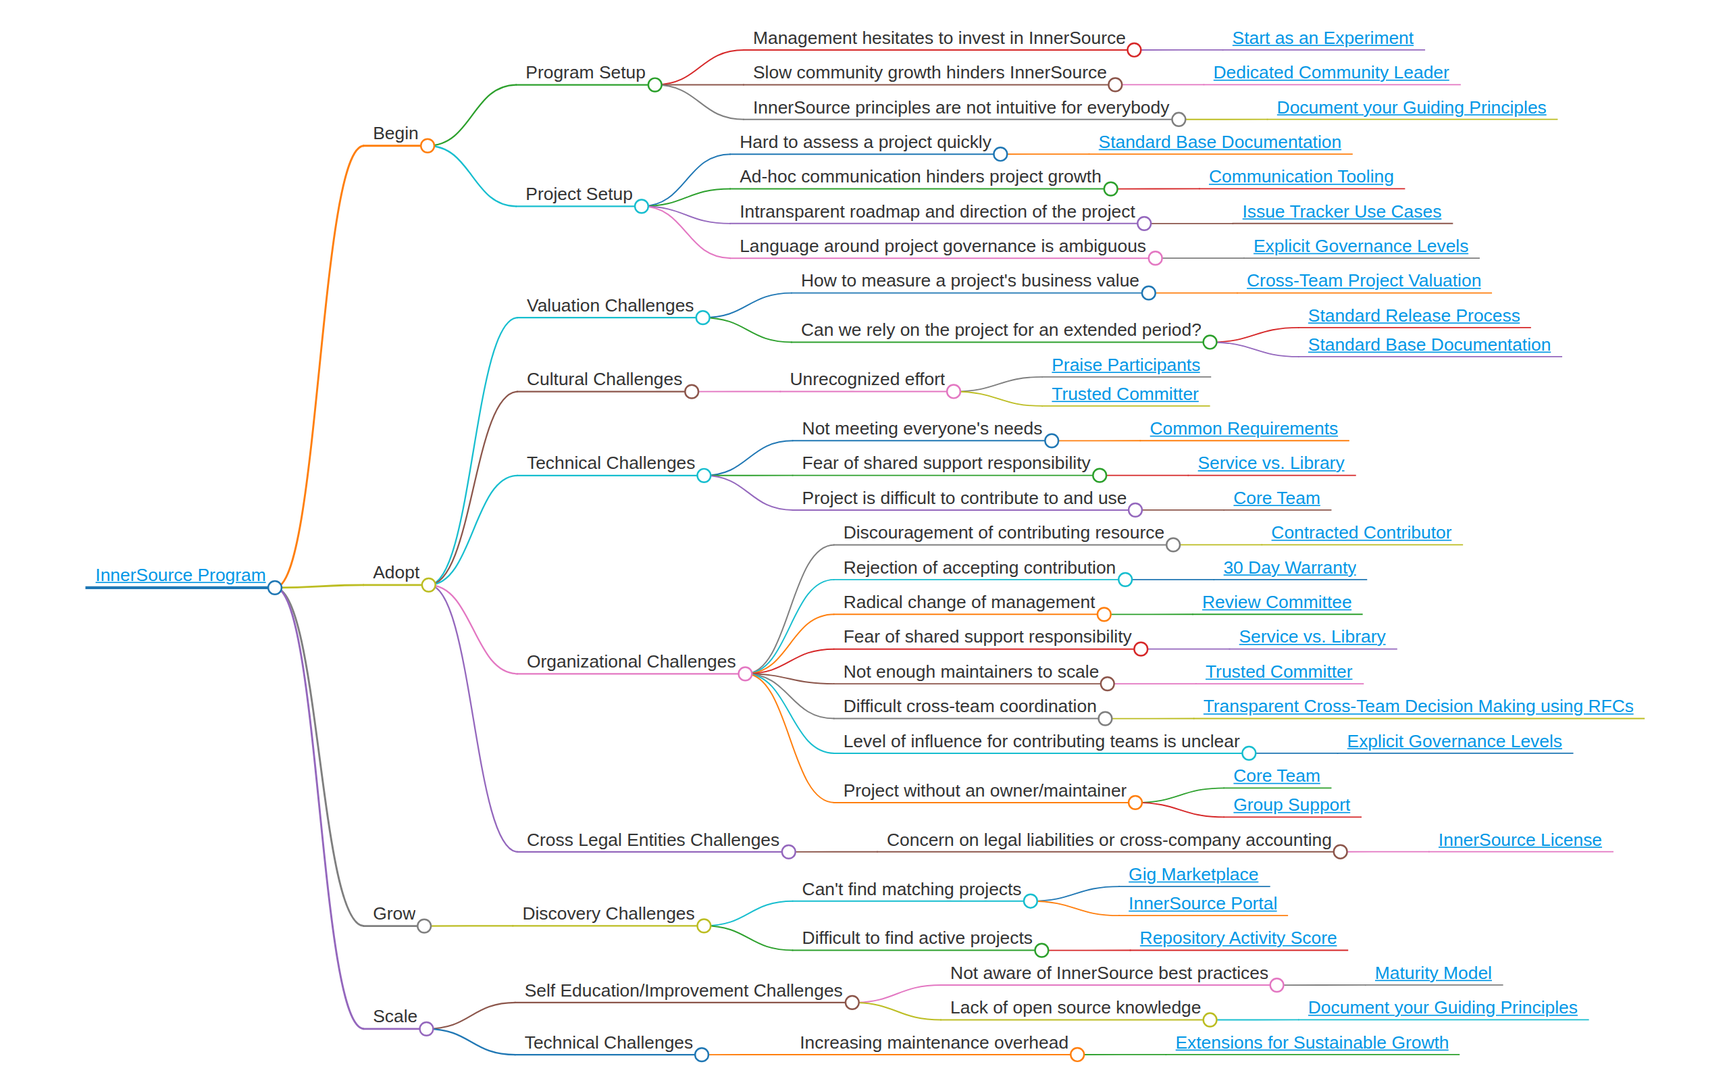
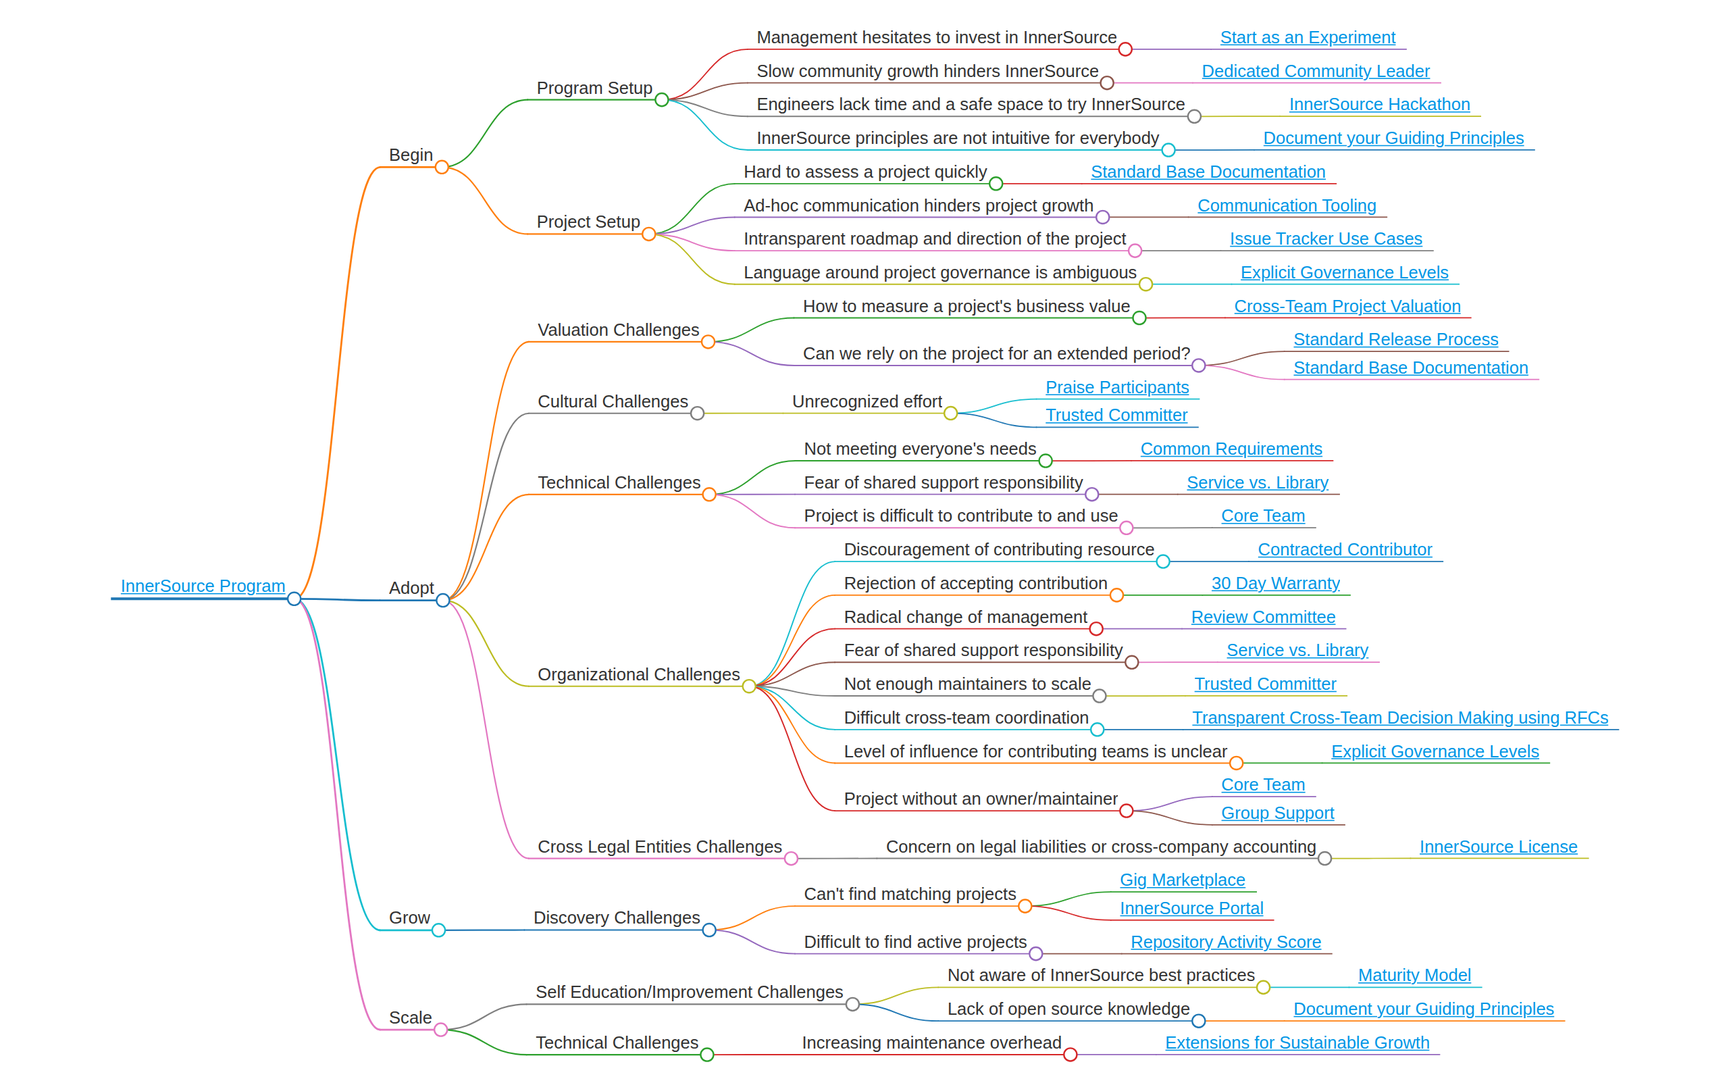
Run GitHub Actions for new pattern (#902)
* Minor change

* Writing updated toc.md for the en book

* Re-creating markmap and screenshot

---------

diff --git a/pattern-categorization/innersource-program-mind-map.html b/pattern-categorization/innersource-program-mind-map.html
@@ -38,6 +38,6 @@ html {
               if (window.matchMedia("(prefers-color-scheme: dark)").matches) {
                 document.documentElement.classList.add("markmap-dark");
               }
-            })(() => window.markmap,null,{"content":"<a href=\"https://patterns.innersourcecommons.org/toc\">InnerSource Program</a>","children":[{"content":"Begin","children":[{"content":"Program Setup","children":[{"content":"Management hesitates to invest in InnerSource","children":[{"content":"<a href=\"https://patterns.innersourcecommons.org/p/start-as-experiment\">Start as an Experiment</a>","children":[],"payload":{"tag":"h5","lines":"8,9"}}],"payload":{"tag":"h4","lines":"6,7"}},{"content":"Slow community growth hinders InnerSource","children":[{"content":"<a href=\"https://patterns.innersourcecommons.org/p/dedicated-community-leader\">Dedicated Community Leader</a>","children":[],"payload":{"tag":"h5","lines":"12,13"}}],"payload":{"tag":"h4","lines":"10,11"}},{"content":"InnerSource principles are not intuitive for everybody","children":[{"content":"<a href=\"https://patterns.innersourcecommons.org/p/document-your-guiding-principles\">Document your Guiding Principles</a>","children":[],"payload":{"tag":"h5","lines":"16,17"}}],"payload":{"tag":"h4","lines":"14,15"}}],"payload":{"tag":"h3","lines":"4,5"}},{"content":"Project Setup","children":[{"content":"Hard to assess a project quickly","children":[{"content":"<a href=\"https://patterns.innersourcecommons.org/p/base-documentation\">Standard Base Documentation</a>","children":[],"payload":{"tag":"h5","lines":"22,23"}}],"payload":{"tag":"h4","lines":"20,21"}},{"content":"Ad-hoc communication hinders project growth","children":[{"content":"<a href=\"https://patterns.innersourcecommons.org/p/communication-tooling\">Communication Tooling</a>","children":[],"payload":{"tag":"h5","lines":"26,27"}}],"payload":{"tag":"h4","lines":"24,25"}},{"content":"Intransparent roadmap and direction of the project","children":[{"content":"<a href=\"https://patterns.innersourcecommons.org/p/issue-tracker\">Issue Tracker Use Cases</a>","children":[],"payload":{"tag":"h5","lines":"30,31"}}],"payload":{"tag":"h4","lines":"28,29"}},{"content":"Language around project governance is ambiguous","children":[{"content":"<a href=\"https://patterns.innersourcecommons.org/p/governance-levels\">Explicit Governance Levels</a>","children":[],"payload":{"tag":"h5","lines":"34,35"}}],"payload":{"tag":"h4","lines":"32,33"}}],"payload":{"tag":"h3","lines":"18,19"}}],"payload":{"tag":"h2","lines":"2,3"}},{"content":"Adopt","children":[{"content":"Valuation Challenges","children":[{"content":"How to measure a project&apos;s business value","children":[{"content":"<a href=\"https://patterns.innersourcecommons.org/p/crossteam-project-valuation\">Cross-Team Project Valuation</a>","children":[],"payload":{"tag":"h5","lines":"42,43"}}],"payload":{"tag":"h4","lines":"40,41"}},{"content":"Can we rely on the project for an extended period?","children":[{"content":"<a href=\"https://patterns.innersourcecommons.org/p/release-process\">Standard Release Process</a>","children":[],"payload":{"tag":"h5","lines":"46,47"}},{"content":"<a href=\"https://patterns.innersourcecommons.org/p/base-documentation\">Standard Base Documentation</a>","children":[],"payload":{"tag":"h5","lines":"48,49"}}],"payload":{"tag":"h4","lines":"44,45"}}],"payload":{"tag":"h3","lines":"38,39"}},{"content":"Cultural Challenges","children":[{"content":"Unrecognized effort","children":[{"content":"<a href=\"https://patterns.innersourcecommons.org/p/praise-participants\">Praise Participants</a>","children":[],"payload":{"tag":"h5","lines":"54,55"}},{"content":"<a href=\"https://patterns.innersourcecommons.org/p/trusted-committer\">Trusted Committer</a>","children":[],"payload":{"tag":"h5","lines":"56,57"}}],"payload":{"tag":"h4","lines":"52,53"}}],"payload":{"tag":"h3","lines":"50,51"}},{"content":"Technical Challenges","children":[{"content":"Not meeting everyone&apos;s needs","children":[{"content":"<a href=\"https://patterns.innersourcecommons.org/p/common-requirements\">Common Requirements</a>","children":[],"payload":{"tag":"h5","lines":"62,63"}}],"payload":{"tag":"h4","lines":"60,61"}},{"content":"Fear of shared support responsibility","children":[{"content":"<a href=\"https://patterns.innersourcecommons.org/p/service-vs-library\">Service vs. Library</a>","children":[],"payload":{"tag":"h5","lines":"66,67"}}],"payload":{"tag":"h4","lines":"64,65"}},{"content":"Project is difficult to contribute to and use","children":[{"content":"<a href=\"https://patterns.innersourcecommons.org/p/core-team\">Core Team</a>","children":[],"payload":{"tag":"h5","lines":"70,71"}}],"payload":{"tag":"h4","lines":"68,69"}}],"payload":{"tag":"h3","lines":"58,59"}},{"content":"Organizational Challenges","children":[{"content":"Discouragement of contributing resource","children":[{"content":"<a href=\"https://patterns.innersourcecommons.org/p/contracted-contributor\">Contracted Contributor</a>","children":[],"payload":{"tag":"h5","lines":"76,77"}}],"payload":{"tag":"h4","lines":"74,75"}},{"content":"Rejection of accepting contribution","children":[{"content":"<a href=\"https://patterns.innersourcecommons.org/p/30-day-warranty\">30 Day Warranty</a>","children":[],"payload":{"tag":"h5","lines":"80,81"}}],"payload":{"tag":"h4","lines":"78,79"}},{"content":"Radical change of management","children":[{"content":"<a href=\"https://patterns.innersourcecommons.org/p/review-committee\">Review Committee</a>","children":[],"payload":{"tag":"h5","lines":"84,85"}}],"payload":{"tag":"h4","lines":"82,83"}},{"content":"Fear of shared support responsibility","children":[{"content":"<a href=\"https://patterns.innersourcecommons.org/p/service-vs-library\">Service vs. Library</a>","children":[],"payload":{"tag":"h5","lines":"88,89"}}],"payload":{"tag":"h4","lines":"86,87"}},{"content":"Not enough maintainers to scale","children":[{"content":"<a href=\"https://patterns.innersourcecommons.org/p/trusted-committer\">Trusted Committer</a>","children":[],"payload":{"tag":"h5","lines":"92,93"}}],"payload":{"tag":"h4","lines":"90,91"}},{"content":"Difficult cross-team coordination","children":[{"content":"<a href=\"https://patterns.innersourcecommons.org/p/transparent-cross-team-decision-making-using-rfcs\">Transparent Cross-Team Decision Making using RFCs</a>","children":[],"payload":{"tag":"h5","lines":"96,97"}}],"payload":{"tag":"h4","lines":"94,95"}},{"content":"Level of influence for contributing teams is unclear","children":[{"content":"<a href=\"https://patterns.innersourcecommons.org/p/governance-levels\">Explicit Governance Levels</a>","children":[],"payload":{"tag":"h5","lines":"100,101"}}],"payload":{"tag":"h4","lines":"98,99"}},{"content":"Project without an owner/maintainer","children":[{"content":"<a href=\"https://patterns.innersourcecommons.org/p/core-team\">Core Team</a>","children":[],"payload":{"tag":"h5","lines":"104,105"}},{"content":"<a href=\"https://patterns.innersourcecommons.org/p/group-support\">Group Support</a>","children":[],"payload":{"tag":"h5","lines":"106,107"}}],"payload":{"tag":"h4","lines":"102,103"}}],"payload":{"tag":"h3","lines":"72,73"}},{"content":"Cross Legal Entities Challenges","children":[{"content":"Concern on legal liabilities or cross-company accounting","children":[{"content":"<a href=\"https://patterns.innersourcecommons.org/p/innersource-license\">InnerSource License</a>","children":[],"payload":{"tag":"h5","lines":"112,113"}}],"payload":{"tag":"h4","lines":"110,111"}}],"payload":{"tag":"h3","lines":"108,109"}}],"payload":{"tag":"h2","lines":"36,37"}},{"content":"Grow","children":[{"content":"Discovery Challenges","children":[{"content":"Can&apos;t find matching projects","children":[{"content":"<a href=\"https://patterns.innersourcecommons.org/p/gig-marketplace\">Gig Marketplace</a>","children":[],"payload":{"tag":"h5","lines":"120,121"}},{"content":"<a href=\"https://patterns.innersourcecommons.org/p/innersource-portal\">InnerSource Portal</a>","children":[],"payload":{"tag":"h5","lines":"122,123"}}],"payload":{"tag":"h4","lines":"118,119"}},{"content":"Difficult to find active projects","children":[{"content":"<a href=\"https://patterns.innersourcecommons.org/p/repository-activity-score\">Repository Activity Score</a>","children":[],"payload":{"tag":"h5","lines":"126,127"}}],"payload":{"tag":"h4","lines":"124,125"}}],"payload":{"tag":"h3","lines":"116,117"}}],"payload":{"tag":"h2","lines":"114,115"}},{"content":"Scale","children":[{"content":"Self Education/Improvement Challenges","children":[{"content":"Not aware of InnerSource best practices","children":[{"content":"<a href=\"https://patterns.innersourcecommons.org/p/maturity-model\">Maturity Model</a>","children":[],"payload":{"tag":"h5","lines":"134,135"}}],"payload":{"tag":"h4","lines":"132,133"}},{"content":"Lack of open source knowledge","children":[{"content":"<a href=\"https://patterns.innersourcecommons.org/p/document-your-guiding-principles\">Document your Guiding Principles</a>","children":[],"payload":{"tag":"h5","lines":"138,139"}}],"payload":{"tag":"h4","lines":"136,137"}}],"payload":{"tag":"h3","lines":"130,131"}},{"content":"Technical Challenges","children":[{"content":"Increasing maintenance overhead","children":[{"content":"<a href=\"https://patterns.innersourcecommons.org/p/extensions-for-sustainable-growth\">Extensions for Sustainable Growth</a>","children":[],"payload":{"tag":"h5","lines":"144,145"}}],"payload":{"tag":"h4","lines":"142,143"}}],"payload":{"tag":"h3","lines":"140,141"}}],"payload":{"tag":"h2","lines":"128,129"}}],"payload":{"tag":"h1","lines":"0,1"}},null)</script>
+            })(() => window.markmap,null,{"content":"<a href=\"https://patterns.innersourcecommons.org/toc\">InnerSource Program</a>","children":[{"content":"Begin","children":[{"content":"Program Setup","children":[{"content":"Management hesitates to invest in InnerSource","children":[{"content":"<a href=\"https://patterns.innersourcecommons.org/p/start-as-experiment\">Start as an Experiment</a>","children":[],"payload":{"tag":"h5","lines":"8,9"}}],"payload":{"tag":"h4","lines":"6,7"}},{"content":"Slow community growth hinders InnerSource","children":[{"content":"<a href=\"https://patterns.innersourcecommons.org/p/dedicated-community-leader\">Dedicated Community Leader</a>","children":[],"payload":{"tag":"h5","lines":"12,13"}}],"payload":{"tag":"h4","lines":"10,11"}},{"content":"Engineers lack time and a safe space to try InnerSource","children":[{"content":"<a href=\"https://patterns.innersourcecommons.org/p/innersource-hackathon\">InnerSource Hackathon</a>","children":[],"payload":{"tag":"h5","lines":"16,17"}}],"payload":{"tag":"h4","lines":"14,15"}},{"content":"InnerSource principles are not intuitive for everybody","children":[{"content":"<a href=\"https://patterns.innersourcecommons.org/p/document-your-guiding-principles\">Document your Guiding Principles</a>","children":[],"payload":{"tag":"h5","lines":"20,21"}}],"payload":{"tag":"h4","lines":"18,19"}}],"payload":{"tag":"h3","lines":"4,5"}},{"content":"Project Setup","children":[{"content":"Hard to assess a project quickly","children":[{"content":"<a href=\"https://patterns.innersourcecommons.org/p/base-documentation\">Standard Base Documentation</a>","children":[],"payload":{"tag":"h5","lines":"26,27"}}],"payload":{"tag":"h4","lines":"24,25"}},{"content":"Ad-hoc communication hinders project growth","children":[{"content":"<a href=\"https://patterns.innersourcecommons.org/p/communication-tooling\">Communication Tooling</a>","children":[],"payload":{"tag":"h5","lines":"30,31"}}],"payload":{"tag":"h4","lines":"28,29"}},{"content":"Intransparent roadmap and direction of the project","children":[{"content":"<a href=\"https://patterns.innersourcecommons.org/p/issue-tracker\">Issue Tracker Use Cases</a>","children":[],"payload":{"tag":"h5","lines":"34,35"}}],"payload":{"tag":"h4","lines":"32,33"}},{"content":"Language around project governance is ambiguous","children":[{"content":"<a href=\"https://patterns.innersourcecommons.org/p/governance-levels\">Explicit Governance Levels</a>","children":[],"payload":{"tag":"h5","lines":"38,39"}}],"payload":{"tag":"h4","lines":"36,37"}}],"payload":{"tag":"h3","lines":"22,23"}}],"payload":{"tag":"h2","lines":"2,3"}},{"content":"Adopt","children":[{"content":"Valuation Challenges","children":[{"content":"How to measure a project&apos;s business value","children":[{"content":"<a href=\"https://patterns.innersourcecommons.org/p/crossteam-project-valuation\">Cross-Team Project Valuation</a>","children":[],"payload":{"tag":"h5","lines":"46,47"}}],"payload":{"tag":"h4","lines":"44,45"}},{"content":"Can we rely on the project for an extended period?","children":[{"content":"<a href=\"https://patterns.innersourcecommons.org/p/release-process\">Standard Release Process</a>","children":[],"payload":{"tag":"h5","lines":"50,51"}},{"content":"<a href=\"https://patterns.innersourcecommons.org/p/base-documentation\">Standard Base Documentation</a>","children":[],"payload":{"tag":"h5","lines":"52,53"}}],"payload":{"tag":"h4","lines":"48,49"}}],"payload":{"tag":"h3","lines":"42,43"}},{"content":"Cultural Challenges","children":[{"content":"Unrecognized effort","children":[{"content":"<a href=\"https://patterns.innersourcecommons.org/p/praise-participants\">Praise Participants</a>","children":[],"payload":{"tag":"h5","lines":"58,59"}},{"content":"<a href=\"https://patterns.innersourcecommons.org/p/trusted-committer\">Trusted Committer</a>","children":[],"payload":{"tag":"h5","lines":"60,61"}}],"payload":{"tag":"h4","lines":"56,57"}}],"payload":{"tag":"h3","lines":"54,55"}},{"content":"Technical Challenges","children":[{"content":"Not meeting everyone&apos;s needs","children":[{"content":"<a href=\"https://patterns.innersourcecommons.org/p/common-requirements\">Common Requirements</a>","children":[],"payload":{"tag":"h5","lines":"66,67"}}],"payload":{"tag":"h4","lines":"64,65"}},{"content":"Fear of shared support responsibility","children":[{"content":"<a href=\"https://patterns.innersourcecommons.org/p/service-vs-library\">Service vs. Library</a>","children":[],"payload":{"tag":"h5","lines":"70,71"}}],"payload":{"tag":"h4","lines":"68,69"}},{"content":"Project is difficult to contribute to and use","children":[{"content":"<a href=\"https://patterns.innersourcecommons.org/p/core-team\">Core Team</a>","children":[],"payload":{"tag":"h5","lines":"74,75"}}],"payload":{"tag":"h4","lines":"72,73"}}],"payload":{"tag":"h3","lines":"62,63"}},{"content":"Organizational Challenges","children":[{"content":"Discouragement of contributing resource","children":[{"content":"<a href=\"https://patterns.innersourcecommons.org/p/contracted-contributor\">Contracted Contributor</a>","children":[],"payload":{"tag":"h5","lines":"80,81"}}],"payload":{"tag":"h4","lines":"78,79"}},{"content":"Rejection of accepting contribution","children":[{"content":"<a href=\"https://patterns.innersourcecommons.org/p/30-day-warranty\">30 Day Warranty</a>","children":[],"payload":{"tag":"h5","lines":"84,85"}}],"payload":{"tag":"h4","lines":"82,83"}},{"content":"Radical change of management","children":[{"content":"<a href=\"https://patterns.innersourcecommons.org/p/review-committee\">Review Committee</a>","children":[],"payload":{"tag":"h5","lines":"88,89"}}],"payload":{"tag":"h4","lines":"86,87"}},{"content":"Fear of shared support responsibility","children":[{"content":"<a href=\"https://patterns.innersourcecommons.org/p/service-vs-library\">Service vs. Library</a>","children":[],"payload":{"tag":"h5","lines":"92,93"}}],"payload":{"tag":"h4","lines":"90,91"}},{"content":"Not enough maintainers to scale","children":[{"content":"<a href=\"https://patterns.innersourcecommons.org/p/trusted-committer\">Trusted Committer</a>","children":[],"payload":{"tag":"h5","lines":"96,97"}}],"payload":{"tag":"h4","lines":"94,95"}},{"content":"Difficult cross-team coordination","children":[{"content":"<a href=\"https://patterns.innersourcecommons.org/p/transparent-cross-team-decision-making-using-rfcs\">Transparent Cross-Team Decision Making using RFCs</a>","children":[],"payload":{"tag":"h5","lines":"100,101"}}],"payload":{"tag":"h4","lines":"98,99"}},{"content":"Level of influence for contributing teams is unclear","children":[{"content":"<a href=\"https://patterns.innersourcecommons.org/p/governance-levels\">Explicit Governance Levels</a>","children":[],"payload":{"tag":"h5","lines":"104,105"}}],"payload":{"tag":"h4","lines":"102,103"}},{"content":"Project without an owner/maintainer","children":[{"content":"<a href=\"https://patterns.innersourcecommons.org/p/core-team\">Core Team</a>","children":[],"payload":{"tag":"h5","lines":"108,109"}},{"content":"<a href=\"https://patterns.innersourcecommons.org/p/group-support\">Group Support</a>","children":[],"payload":{"tag":"h5","lines":"110,111"}}],"payload":{"tag":"h4","lines":"106,107"}}],"payload":{"tag":"h3","lines":"76,77"}},{"content":"Cross Legal Entities Challenges","children":[{"content":"Concern on legal liabilities or cross-company accounting","children":[{"content":"<a href=\"https://patterns.innersourcecommons.org/p/innersource-license\">InnerSource License</a>","children":[],"payload":{"tag":"h5","lines":"116,117"}}],"payload":{"tag":"h4","lines":"114,115"}}],"payload":{"tag":"h3","lines":"112,113"}}],"payload":{"tag":"h2","lines":"40,41"}},{"content":"Grow","children":[{"content":"Discovery Challenges","children":[{"content":"Can&apos;t find matching projects","children":[{"content":"<a href=\"https://patterns.innersourcecommons.org/p/gig-marketplace\">Gig Marketplace</a>","children":[],"payload":{"tag":"h5","lines":"124,125"}},{"content":"<a href=\"https://patterns.innersourcecommons.org/p/innersource-portal\">InnerSource Portal</a>","children":[],"payload":{"tag":"h5","lines":"126,127"}}],"payload":{"tag":"h4","lines":"122,123"}},{"content":"Difficult to find active projects","children":[{"content":"<a href=\"https://patterns.innersourcecommons.org/p/repository-activity-score\">Repository Activity Score</a>","children":[],"payload":{"tag":"h5","lines":"130,131"}}],"payload":{"tag":"h4","lines":"128,129"}}],"payload":{"tag":"h3","lines":"120,121"}}],"payload":{"tag":"h2","lines":"118,119"}},{"content":"Scale","children":[{"content":"Self Education/Improvement Challenges","children":[{"content":"Not aware of InnerSource best practices","children":[{"content":"<a href=\"https://patterns.innersourcecommons.org/p/maturity-model\">Maturity Model</a>","children":[],"payload":{"tag":"h5","lines":"138,139"}}],"payload":{"tag":"h4","lines":"136,137"}},{"content":"Lack of open source knowledge","children":[{"content":"<a href=\"https://patterns.innersourcecommons.org/p/document-your-guiding-principles\">Document your Guiding Principles</a>","children":[],"payload":{"tag":"h5","lines":"142,143"}}],"payload":{"tag":"h4","lines":"140,141"}}],"payload":{"tag":"h3","lines":"134,135"}},{"content":"Technical Challenges","children":[{"content":"Increasing maintenance overhead","children":[{"content":"<a href=\"https://patterns.innersourcecommons.org/p/extensions-for-sustainable-growth\">Extensions for Sustainable Growth</a>","children":[],"payload":{"tag":"h5","lines":"148,149"}}],"payload":{"tag":"h4","lines":"146,147"}}],"payload":{"tag":"h3","lines":"144,145"}}],"payload":{"tag":"h2","lines":"132,133"}}],"payload":{"tag":"h1","lines":"0,1"}},null)</script>
 </body>
 </html>

diff --git a/book/en/toc.md b/book/en/toc.md
@@ -31,6 +31,7 @@ Instead edit toc_template.md
 * [Extensions for Sustainable Growth](../../patterns/2-structured/extensions-for-sustainable-growth.md) - An InnerSource project is receiving too many contributions, making maintenance difficult. By offering an extension mechanism outside of the core project, the maintainers enable scaling of project capabilities with minimal cost and maintenance overhead.
 * [Gig Marketplace](../../patterns/2-structured/gig-marketplace.md) - Establish a marketplace by creating an intranet website that lists specific InnerSource project needs as "Gigs" with explicit time and skill requirements.  This will enable managers to better understand their employee’s time commitment and professional benefits thereby increasing the likelihood of garnering approval to make InnerSource contributions.
 * [Group Support](../../patterns/2-structured/group-support.md) - What happens if a team or individual no longer supports an InnerSource project? Keep the project alive by forming a group of interested individuals.
+* [InnerSource Hackathon](../../patterns/2-structured/innersource-hackathon.md) - Only InnerSource enthusiasts practice InnerSource during the early stages of adoption, while most engineering teams lack the time or motivation to try it. Hosting a company-wide hackathon focused on InnerSource contributions provides a safe space for engineers to experiment with InnerSource practices and produces tangible contributions to InnerSource projects.
 * [InnerSource License](../../patterns/2-structured/innersource-license.md) - Two legal entities that belong to the same organization want to share software source code with each other but they are concerned about the implications in terms of legal liabilities or cross-company accounting. An InnerSource License provides a reusable legal framework for the sharing of source code within the organization. This opens up new collaboration options, and makes the rights and obligations of the involved legal entities explicit.
 * [InnerSource Portal](../../patterns/2-structured/innersource-portal.md) - Potential contributors cannot easily discover InnerSource projects that they are interested in. By creating an intranet website that indexes all available InnerSource project information you enable contributors to learn about projects that might interest them and InnerSource project owners to attract an outside audience.
 * [Issue Tracker Use Cases](../../patterns/2-structured/issue-tracker.md) - The InnerSource host team fails to make not only plans and progress but also context for changes transparent. This is solved by increasing the use cases for the project issue tracker to also serve brainstorming, implementation discussion, and feature design.

diff --git a/pattern-categorization/innersource-program-mind-map.md b/pattern-categorization/innersource-program-mind-map.md
@@ -12,7 +12,7 @@
 
 ##### [Dedicated Community Leader](https://patterns.innersourcecommons.org/p/dedicated-community-leader)
 
-#### Engineers lack time and safe space to try InnerSource
+#### Engineers lack time and a safe space to try InnerSource
 
 ##### [InnerSource Hackathon](https://patterns.innersourcecommons.org/p/innersource-hackathon)
 
